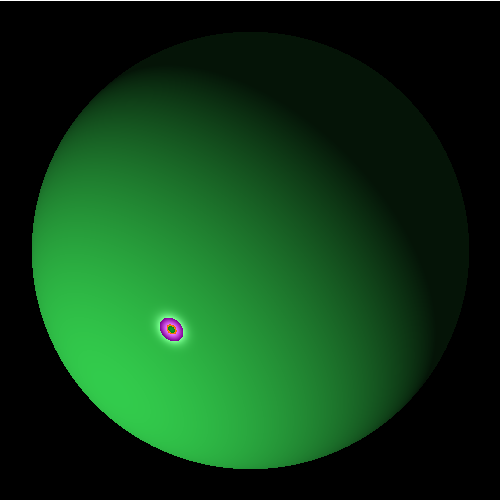
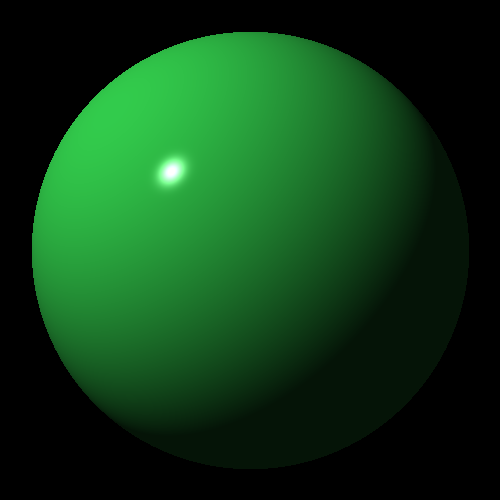
Go ray tracer; fix 3d ball rendering

diff --git a/books/gray/samples/canvas_sample_test.go b/books/gray/samples/canvas_sample_test.go
@@ -1,31 +1,31 @@
 package samples
 
 import (
+	"gray/multid"
+	"gray/oned"
 	"testing"
 )
 
 func Test(t *testing.T) {
 	//todo: do I want to export this methods?
-	//start := oned.Point{0, 1, 0}
-	//velocity := oned.Vector{1, 1.8, 0}.normalize().multiplyScalar(11.25)
-	//p := oned.projectile{start, velocity}
-	//
-	//gravity := oned.Vector{0, -0.1, 0}
-	//wind := oned.Vector{-0.01, 0, 0}
-	//e := oned.environment{gravity, wind}
-	//
-	//c := NewCanvas(900, 500)
-	//
-	//for p.position.X >= 0 && p.position.Y > 0 {
-	//	x := int(p.position.X)
-	//	y := int(p.position.Y)
-	//	c.Pixels[x][y] = oned.NewColor(1, 0, 0)
-	//	p = p.tick(e)
-	//}
-	//
-	//err := c.ToPNG("canvas_example_test.png")
-	//if err != nil {
-	//	log.Panic(err)
-	//}
+	start := oned.Point{0, 1, 0}
+	velocity := oned.Vector{1, 1.8, 0}.Normalize().MultiplyScalar(11.25)
+	p := projectile{start, velocity}
 
+	gravity := oned.Vector{0, -0.1, 0}
+	wind := oned.Vector{-0.01, 0, 0}
+	e := environment{gravity, wind}
+
+	width := 900
+	height := 500
+	c := multid.MakeCanvas(width, height)
+
+	for p.position.X >= 0 && p.position.Y > 0 {
+		x := int(p.position.X)
+		y := int(p.position.Y)
+		c.Pixels[x][height-y] = oned.NewColor(1, 0, 0)
+		p = p.tick(e)
+	}
+
+	c.MustToPNG("canvas_sample_test.png")
 }

diff --git a/books/gray/multid/canvas.go b/books/gray/multid/canvas.go
@@ -34,10 +34,11 @@ func (c Canvas) ToPNG(filename string) error {
 	img := image.NewRGBA(image.Rect(0, 0, c.Width, c.Height))
 	for i, p := range c.Pixels {
 		for j, px := range p {
-			img.Set(i, c.Height-j, color.RGBA{ //todo (Height-j)?
-				R: uint8(px.R() * 255),
-				G: uint8(px.G() * 255),
-				B: uint8(px.B() * 255),
+
+			img.Set(i, j, color.RGBA{ //todo (Height-j)?
+				R: uint8(clamp(px.R()) * 255),
+				G: uint8(clamp(px.G()) * 255),
+				B: uint8(clamp(px.B()) * 255),
 				A: 255})
 		}
 	}
@@ -49,6 +50,17 @@ func (c Canvas) ToPNG(filename string) error {
 		return err
 	}
 	return nil
+}
+
+//todo refactor
+func clamp(r float64) float64 {
+	if r < 0 {
+		return 0
+	}
+	if r > 1 {
+		return 1
+	}
+	return r
 }
 
 func (c Canvas) MustToPNG(filename string) {

diff --git a/books/gray/samples/projectile.go b/books/gray/samples/projectile.go
@@ -1,12 +1,14 @@
-package oned
+package samples
+
+import "gray/oned"
 
 type projectile struct {
-	position Point
-	velocity Vector
+	position oned.Point
+	velocity oned.Vector
 }
 type environment struct {
-	gravity Vector
-	wind    Vector
+	gravity oned.Vector
+	wind    oned.Vector
 }
 
 //func (p projectile) move() (position Point) {
@@ -15,6 +17,6 @@ type environment struct {
 
 func (proj projectile) tick(env environment) projectile {
 	position := proj.position.AddVector(proj.velocity)
-	velocity := proj.velocity.addVector(env.gravity).addVector(env.wind)
+	velocity := proj.velocity.AddVector(env.gravity).AddVector(env.wind)
 	return projectile{position, velocity}
 }

diff --git a/books/gray/samples/projectile_test.go b/books/gray/samples/projectile_test.go
@@ -1,0 +1,15 @@
+package samples
+
+import (
+	"gray/oned"
+	"testing"
+)
+
+func Test_tick(t *testing.T) {
+	p := projectile{oned.Point{0, 1, 0}, oned.Vector{1, 1, 0}.Normalize()}
+	e := environment{oned.Vector{0, -0.1, 0}, oned.Vector{-0.01, 0, 0}}
+	for p.position.Y > 0 {
+		p = p.tick(e)
+		//fmt.Println(p)
+	}
+}

diff --git a/books/gray/oned/vector_test.go b/books/gray/oned/vector_test.go
@@ -16,7 +16,7 @@ func Test_addVector_gives_vector(t *testing.T) {
 	v1 := Vector{1, 2, 3}
 	v2 := Vector{2, 3, 4}
 
-	vector := v1.addVector(v2)
+	vector := v1.AddVector(v2)
 
 	assert.Equal(t, Vector{3, 5, 7}, vector)
 }

diff --git a/books/gray/oned/vector.go b/books/gray/oned/vector.go
@@ -4,7 +4,7 @@ import "math"
 
 type Vector Tuple //w = 0
 //todo: use link
-func (t Vector) addVector(o Vector) Vector {
+func (t Vector) AddVector(o Vector) Vector {
 	return Vector(Tuple(t).add(Tuple(o)))
 }
 
